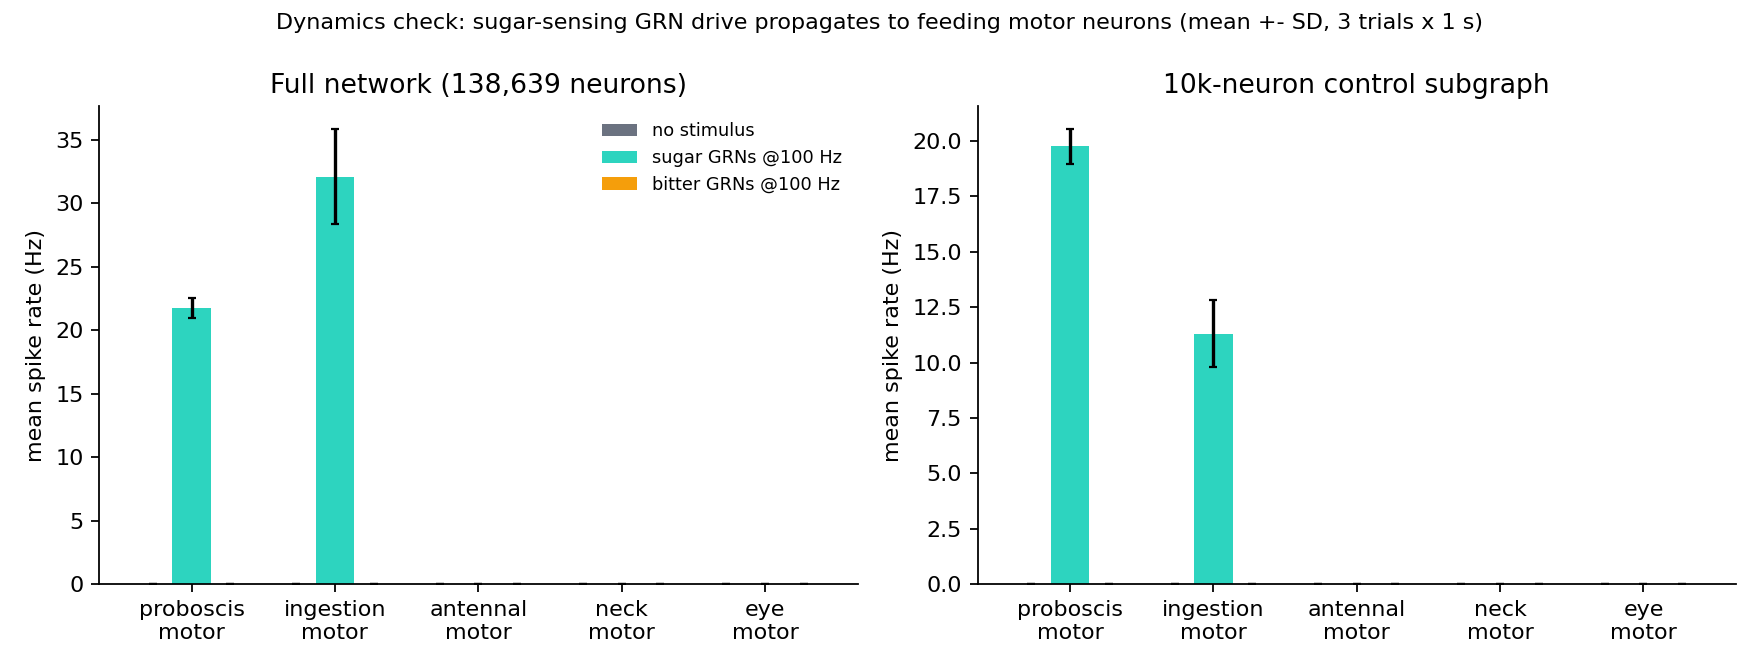
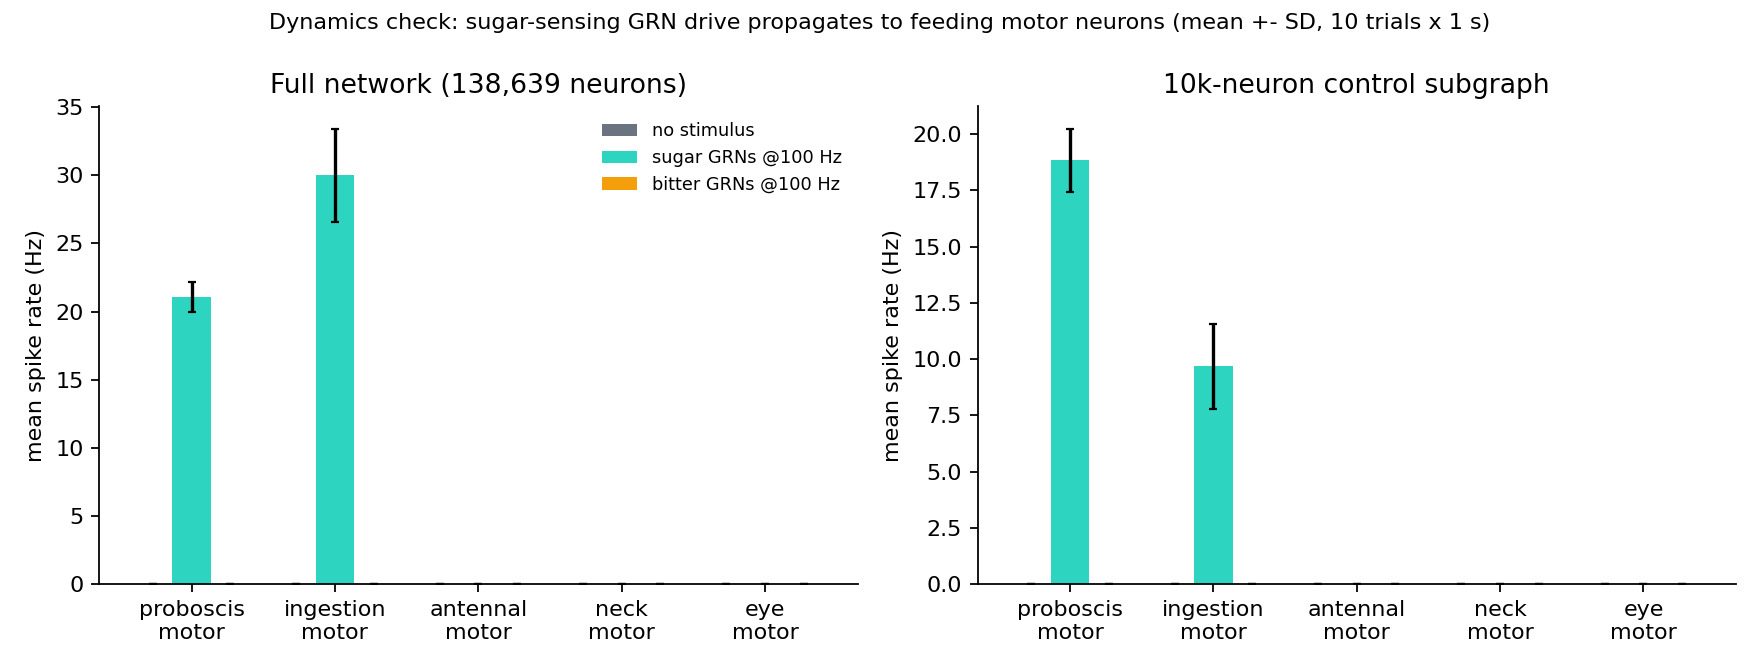
Shiu validation, 10 trials

diff --git a/scripts/make_assets.py b/scripts/make_assets.py
@@ -1,0 +1,73 @@
+"""Build demo.gif, hero.mp4, reel, cover, carousel, vertical clips from rendered clips and results files."""
+import json, os, shutil
+import imageio.v2 as iio, numpy as np
+from PIL import Image, ImageDraw, ImageFont
+M = "docs/media"; OUT = "docs/social"; os.makedirs(OUT, exist_ok=True)
+S = json.load(open("results/summary.json"))
+def font(sz):
+    for p in ["/usr/share/fonts/truetype/dejavu/DejaVuSans-Bold.ttf"]:
+        if os.path.exists(p): return ImageFont.truetype(p, sz)
+    return ImageFont.load_default()
+def frames(fn, step=1):
+    r = iio.get_reader(f"{M}/{fn}"); out = [Image.fromarray(f) for i, f in enumerate(r) if i % step == 0]; r.close(); return out
+def label(img, text, sub=""):
+    im = img.copy(); d = ImageDraw.Draw(im); d.rectangle([0, 0, im.width, 34], fill=(16, 20, 28)); d.text((10, 6), text, fill=(240, 240, 240), font=font(18))
+    if sub: d.text((im.width - 10 - 9 * len(sub), 8), sub, fill=(150, 200, 255), font=font(14))
+    return im
+def write(fn, fr, fps=30):
+    w = iio.get_writer(fn, fps=fps, codec="libx264", pixelformat="yuv420p", macro_block_size=2, quality=7)
+    for f in fr: w.append_data(np.asarray(f.convert("RGB")))
+    w.close()
+def side(sc):
+    names = {"tripod": "Tripod CPG", "connectome": "Connectome-inspired", "ppo": "PPO residual"}
+    cl = {c: frames(f"{c}__{sc}.mp4") for c in names}; n = max(len(v) for v in cl.values()); W, H = cl["tripod"][0].size
+    out = []
+    for i in range(n):
+        row = Image.new("RGB", (W * 3, H))
+        for k, c in enumerate(names):
+            f = cl[c][min(i, len(cl[c]) - 1)]; row.paste(label(f, names[c], "fell" if i >= len(cl[c]) - 1 and len(cl[c]) < n else ""), (k * W, 0))
+        out.append(row)
+    return out
+def card(text_lines, size, bg=(16, 20, 28)):
+    im = Image.new("RGB", size, bg); d = ImageDraw.Draw(im); y = size[1] // 3
+    for t, sz, col in text_lines:
+        f = font(sz); d.text((size[0] // 12, y), t, fill=col, font=f); y += int(sz * 1.5)
+    return im
+def hold(im, s, fps=30): return [im] * int(s * fps)
+sim = "Simulation only. 2 vCPU CPU sandbox measurements."
+# hero + gif
+hero = side("flat"); write(f"{M}/hero.mp4", hero); shutil.copy(f"{M}/hero.mp4", "dashboard/public/media/hero.mp4")
+g = [f.resize((f.width // 2, f.height // 2)) for f in hero[::3]]; g[0].save(f"{M}/demo.gif", save_all=True, append_images=g[1:], duration=100, loop=0, optimize=True)
+# reel 45s
+parts = [("flat", "Flat ground: all three walk"), ("slope15", "15 deg slope: tripod and connectome-inspired fall, PPO survives"), ("push", "48 N push"), ("fault_disable_leg", "Fault: leg disabled")]
+reel = hold(card([("NeuroWalker", 60, (255, 255, 255)), ("Connectome-inspired hexapod, simulated", 26, (150, 200, 255)), (sim, 18, (180, 180, 180))], hero[0].size), 3)
+for sc, cap in parts:
+    try: fr = side(sc)
+    except Exception as e: print("skip", sc, e); continue
+    fr = [label(f, cap) if False else f for f in fr]
+    d = ImageDraw.Draw(fr[0]); reel += [ (lambda f: (ImageDraw.Draw(f).text((12, f.height - 28), cap, fill=(255, 255, 0), font=font(18)), f)[1])(f.copy()) for f in fr[:int(9 * 30)] ]
+reel += hold(card([("All numbers from results/summary.json", 30, (255, 255, 255)), ("10 seeds per cell, simulation only", 22, (150, 200, 255))], hero[0].size), 3)
+write(f"{OUT}/reel_showcase.mp4", reel)
+# vertical clips 15s (1080x1920) per controller
+for c in ["connectome", "ppo"]:
+    fr = frames(f"{c}__flat.mp4")[:450]; v = []
+    for f in fr:
+        im = Image.new("RGB", (1080, 1920), (16, 20, 28)); big = f.resize((1080, 607)); im.paste(big, (0, 656)); ImageDraw.Draw(im).text((40, 520), {"connectome": "Connectome-inspired controller", "ppo": "PPO residual controller"}[c], fill=(255, 255, 255), font=font(44)); ImageDraw.Draw(im).text((40, 1300), "Simulation only", fill=(180, 180, 180), font=font(30)); v.append(im)
+    write(f"{OUT}/vertical_{c}.mp4", v)
+# cover + carousel
+cover = card([("NeuroWalker", 110, (255, 255, 255)), ("Connectome-inspired hexapod", 48, (150, 200, 255)), ("Simulation only", 36, (200, 200, 200))], (1080, 1080)); cover.save(f"{OUT}/cover_1080x1080.png")
+f1 = lambda x: f"{x:.2f} m"
+def d(c, s): return S[c][s]["distance"]["mean"]
+def falls(c, s): return f"{S[c][s]['fall_rate']['falls']}/{S[c][s]['fall_rate']['n']}"
+slides = [
+ [("NeuroWalker", 90, (255, 255, 255)), ("Connectome-inspired hexapod", 44, (150, 200, 255)), ("Simulation only", 34, (200, 200, 200))],
+ [("What it is", 60, (255, 255, 255)), ("10,000-neuron piece of a published", 36, (230, 230, 230)), ("fruit-fly connectome, steering a", 36, (230, 230, 230)), ("simulated 18-DOF hexapod.", 36, (230, 230, 230))],
+ [("Flat ground, 10 s", 60, (255, 255, 255)), (f"Tripod: {f1(d('tripod','flat'))}", 44, (230, 230, 230)), (f"Connectome-inspired: {f1(d('connectome','flat'))}", 44, (230, 230, 230)), (f"PPO residual: {f1(d('ppo','flat'))}", 44, (230, 230, 230))],
+ [("15 deg slope, falls /10", 60, (255, 255, 255)), (f"Tripod: {falls('tripod','slope15')}", 44, (230, 230, 230)), (f"Connectome-inspired: {falls('connectome','slope15')}", 44, (230, 230, 230)), (f"PPO residual: {falls('ppo','slope15')}", 44, (230, 230, 230))],
+ [("48 N push, falls /10", 60, (255, 255, 255)), (f"Tripod: {falls('tripod','push')}", 44, (230, 230, 230)), (f"Connectome-inspired: {falls('connectome','push')}", 44, (230, 230, 230)), (f"PPO residual: {falls('ppo','push')}", 44, (230, 230, 230))],
+ [("Self-healing, leg disabled", 56, (255, 255, 255)), ("speed kept, without -> with healing", 30, (150, 200, 255))] + [(f"{n}: {S[c]['fault_disable_leg']['fault_retained']['mean']*100:.0f}% -> {S[c]['fault_disable_leg+healing']['fault_retained']['mean']*100:.0f}%", 40, (230, 230, 230)) for c, n in [("tripod", "Tripod"), ("connectome", "Connectome-inspired"), ("ppo", "PPO residual")]],
+ [("Honest limits", 60, (255, 255, 255)), ("Simulation only, no hardware.", 34, (230, 230, 230)), ("Not an emulated fly brain.", 34, (230, 230, 230)), ("10 seeds, 2 vCPU sandbox timings.", 34, (230, 230, 230))],
+ [("Code, data, results", 60, (255, 255, 255)), ("All numbers from results/summary.json", 34, (230, 230, 230)), ("Data: FlyWire, CC BY-NC 4.0", 34, (230, 230, 230))],
+]
+for i, s in enumerate(slides, 1): card(s, (1080, 1350)).save(f"{OUT}/carousel_{i}.png")
+print("assets ok")

diff --git a/scripts/make_readme.py b/scripts/make_readme.py
@@ -27,7 +27,7 @@ A simulated 18-DOF hexapod (MuJoCo) whose walking is modulated by a **connectome
 ## The 30-second version
 Take a map of how a fruit fly's brain cells connect. Cut out a 10,000-cell piece around the cells that feel the body and the cells that send commands down. Feed the robot's sensor readings into the input cells, read the output cells, and let them nudge the speed and turning of a normal walking pattern. Then break a leg and see whether the robot notices and adapts. It is not a copy of a fly brain, and the robot does not think like a fly.
 
-## Key results (generated from `results/summary.json`; 10 seeds per cell, 640 ... see docs/BENCHMARK.md)
+## Key results (generated from `results/summary.json`; 10 seeds per cell, see docs/BENCHMARK.md)
 | scenario | {' | '.join(L[c] for c in ctrls)} |
 |---|{'---|' * len(ctrls)}
 {rows}
